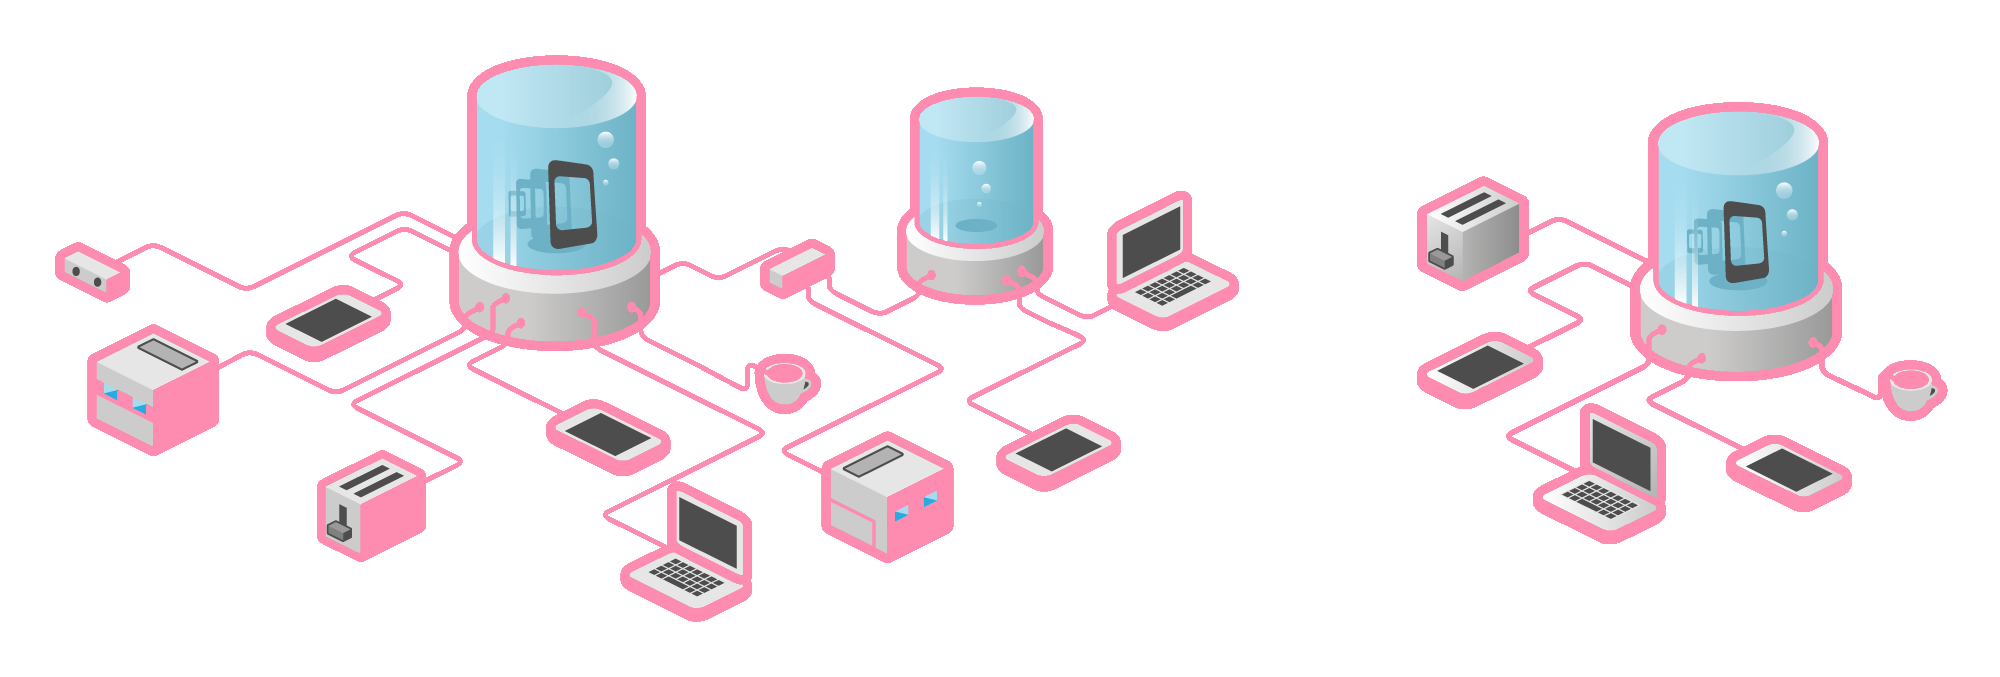
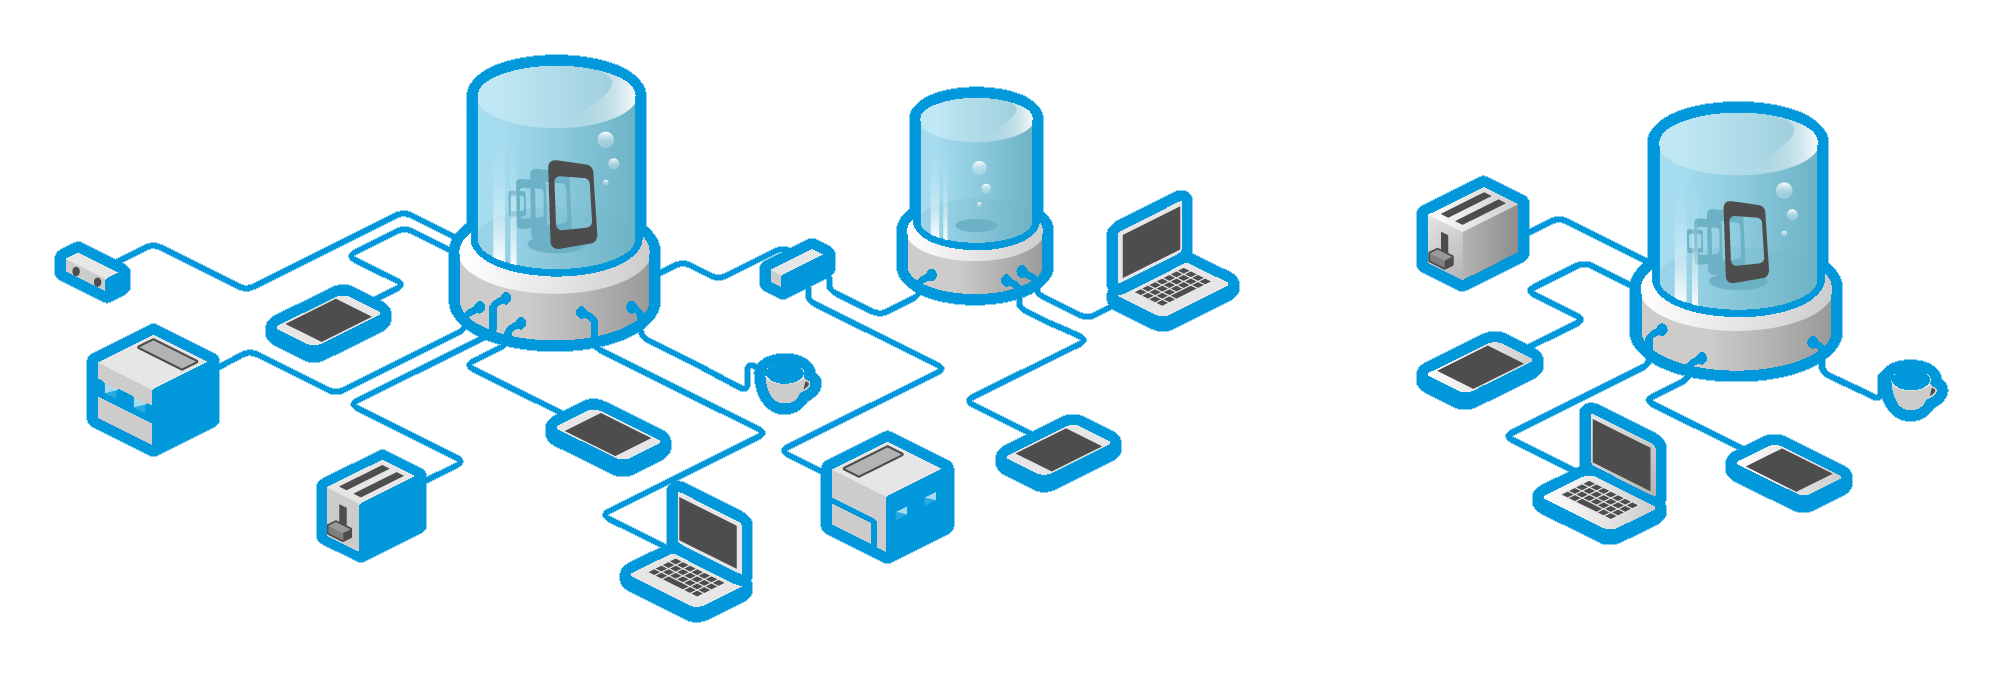
mengubah seluruhnya

diff --git a/jarkom.html b/jarkom.html
@@ -6,8 +6,6 @@
     <link rel="stylesheet" href="https://stackpath.bootstrapcdn.com/bootstrap/4.4.1/css/bootstrap.min.css" integrity="sha384-Vkoo8x4CGsO3+Hhxv8T/Q5PaXtkKtu6ug5TOeNV6gBiFeWPGFN9MuhOf23Q9Ifjh" crossorigin="anonymous">
     <link rel="stylesheet" href="styles.css">
     <link href="https://fonts.googleapis.com/css2?family=Aladin&family=Berkshire+Swash&family=Boogaloo&family=Chela+One&family=Germania+One&family=Handlee&family=Katibeh&family=Kavoon&family=Nova+Slim&family=Roboto&display=swap" rel="stylesheet">
-    
-
     <title>Computer Network</title>
 </head>
 <body>
@@ -19,7 +17,7 @@
             <div class="collapse navbar-collapse" id="navbarNav">
                 <ul class="navbar-nav ml-auto">
                   <li>
-                    <a class="home" href="home.html"><img src="img/home.png" alt=""></a>
+                    <a class="home" href="index.html"><img src="img/home.png" alt=""></a>
                   </li>
                   <li>
                     <a class="gh" href="https://github.com/Mirna-D"><img src="img/gh.png" alt=""></a>
@@ -84,7 +82,7 @@
                 <li class="nav-item">
                   <a class="nav-link" href="#checksum">
                     <svg xmlns="http://www.w3.org/2000/svg" width="24" height="24" viewBox="0 0 24 24" fill="none" stroke="currentColor" stroke-width="2" stroke-linecap="round" stroke-linejoin="round" class="feather feather-file-text"><path d="M14 2H6a2 2 0 0 0-2 2v16a2 2 0 0 0 2 2h12a2 2 0 0 0 2-2V8z"></path><polyline points="14 2 14 8 20 8"></polyline><line x1="16" y1="13" x2="8" y2="13"></line><line x1="16" y1="17" x2="8" y2="17"></line><polyline points="10 9 9 9 8 9"></polyline></svg>
-                    Checksum Checking
+                    Checksum
                   </a>
                 </li>
               </ul>
@@ -199,7 +197,7 @@
             </nav>
             <nav class="checksum" id="checksum">
               <div class="d-flex justify-content-between flex-wrap flex-md-nowrap align-items-center pt-3 pb-2 mb-3 border-bottom">
-                <h1>Checksum Checking</h1>
+                <h1>Checksumg</h1>
             </div>
             <p>Checksum digunakan untuk menentukan apakah bit dalam segmen UDP telah diubah saat dipindahkan dari sumber ke tujuan.</p>
             <b>Pengirim</b>
@@ -220,7 +218,7 @@
                 Jika hasil komplemen dari penjumlahan tersebut 0, maka data telah diterima. Dan sebaliknya, maka data error. <br><b>Nilai Checksum</b>
                 </p>
                 <img src="img/nc.png" alt="">
-                <p>Selanjutnya pengujian apakah data diterima atau tidak</p>
+                <p>Jadi data yang dikirimkan adalah 1111111100000000 1010101010101010 0000111111110000 0100011001100100. Selanjutnya pengujian apakah data diterima atau tidak</p>
                 <img src="img/dd.png" alt="">
                 <p>Adapun faktor yang dapat mempengaruhi apakah checksum dapat mendeteksi error atau tidak adalah posisi bit yang error dan jumlah bit yang  error. 
                   misalkan pada data sebelumnya, terdapat bit yang error (bit ke-4) maka akan menghasilkan:

diff --git a/style.css b/style.css
@@ -11,7 +11,7 @@ body {
 }
 
 .jumbotron {
-    background-color: rgb(250, 219, 225);
+    background-color: rgb(143, 178, 255);
     background-image: url(image/phonegap_lab.png);
     text-align: center;
     color: black;
@@ -34,7 +34,7 @@ body {
 }
 
 .jumbotron .btn {
-    background-color: rgb(253, 114, 137);
+    background-color: rgb(71, 114, 255);
     border: none;
     border-radius: 25px;
     padding-left: 25px;
@@ -46,7 +46,7 @@ body {
 .about {
     height: 100vh;
     align-items: center;
-    background-color:   rgb(255, 203, 211);
+    background-color:   rgb(118, 193, 255);
 }
 
 .about .container {
@@ -63,7 +63,7 @@ body {
 
 .about hr {
     border-width: 4px;
-    border-color:  rgb(253, 114, 137);
+    border-color:  rgb(92, 102, 255);
 }
 
 .about .me {

diff --git a/index.html b/index.html
@@ -50,7 +50,7 @@
         <div class="container">
             <h1 class="display-4">WELCOME TO MY PERSONAL WEB</h1>
             <hr class="my-4">
-            <p class="lead">Sebuah Web yang Berisi Materi Tentang Jaringan Komputer</p>
+            <p class="lead">Baru Belajar<br>Perjalanan Masih Panjang</p>
             <a class="btn btn-primary btn-lg font-weight-bold" href="#about" role="button">ABOUT ME</a>
         </div>
     </div>
